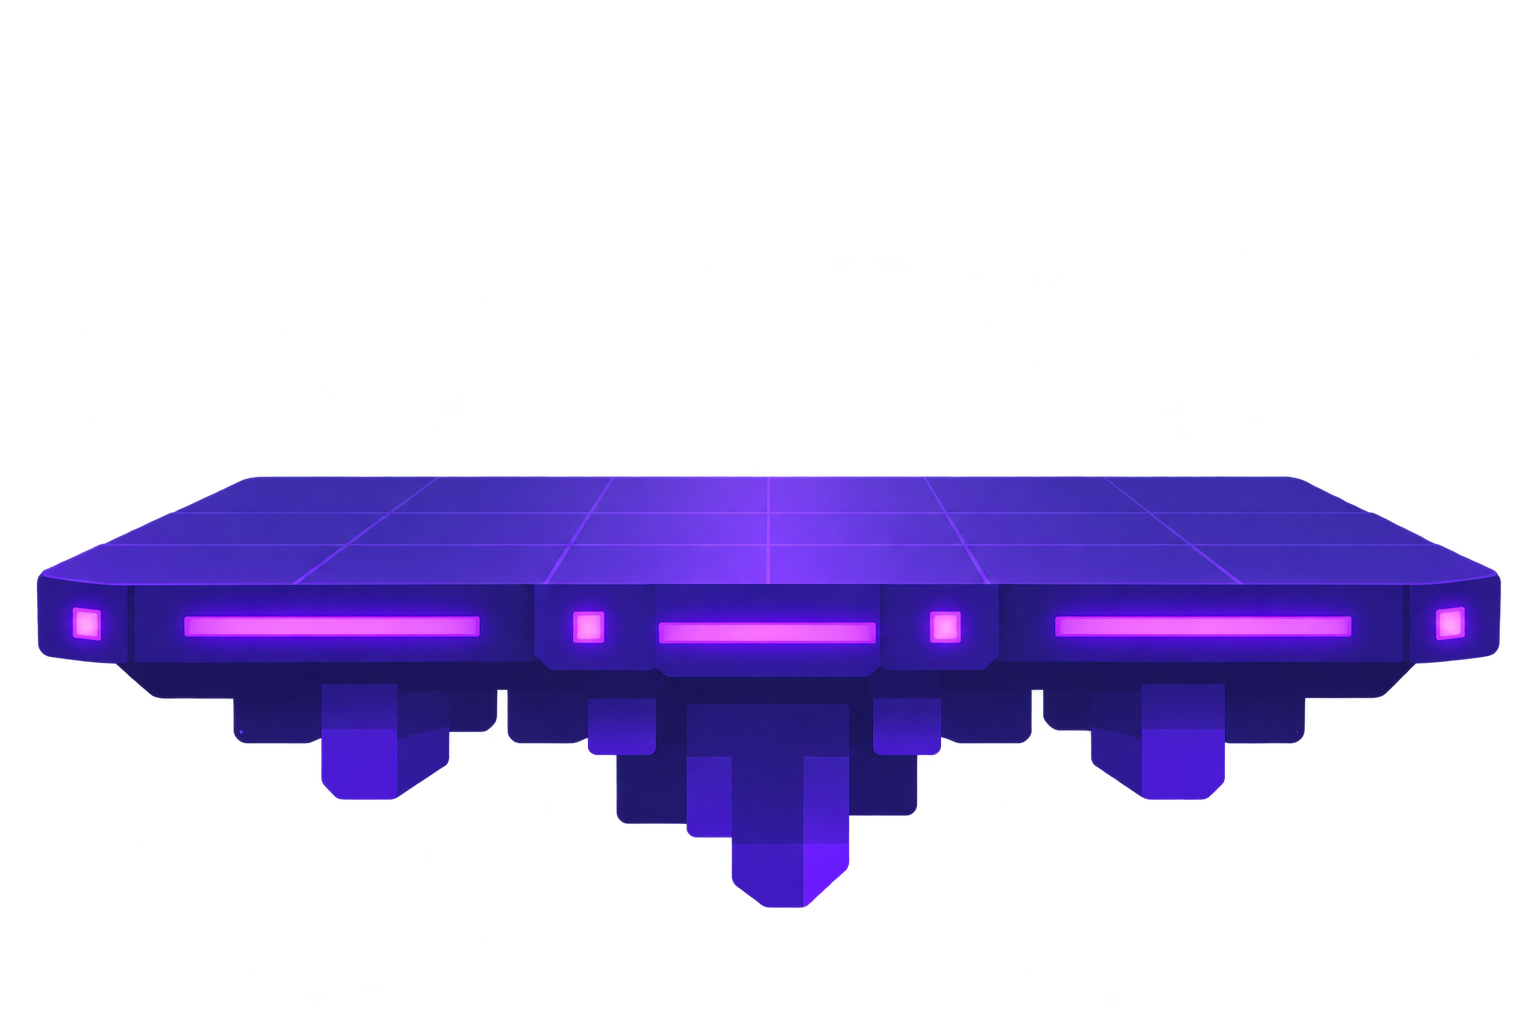
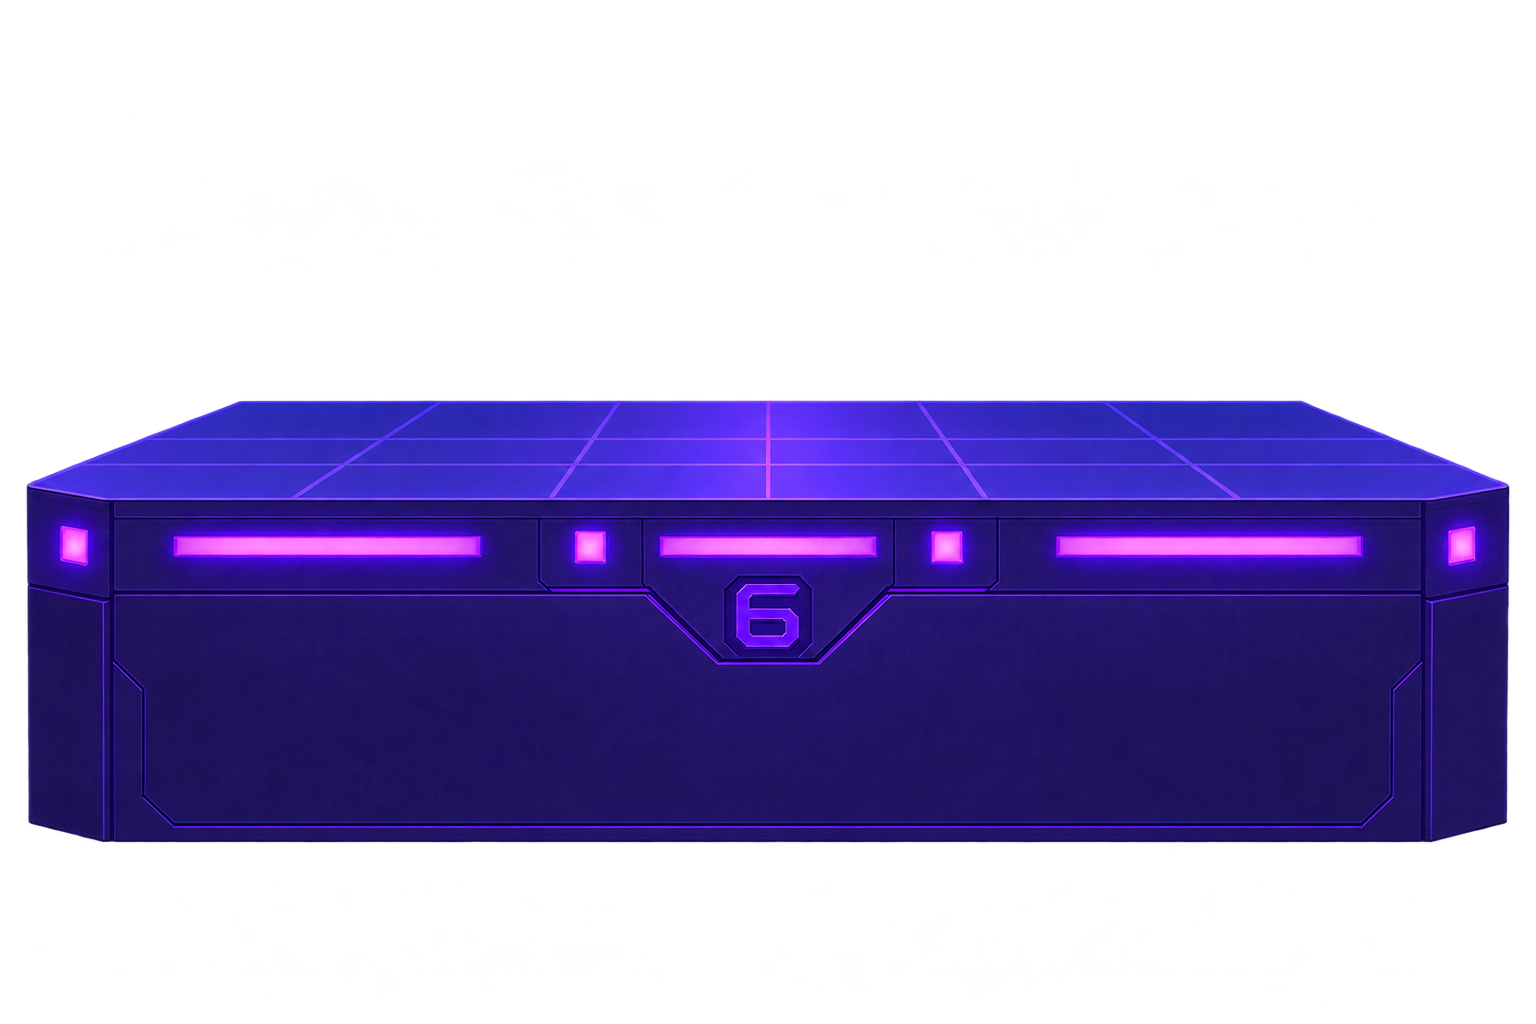
Add files via upload

diff --git a/renderer.js b/renderer.js
@@ -9,60 +9,40 @@ import { getResonanceAttackAction } from './resonanceConstructs.js';
 import { getAttackSpecForData } from './attackSpecs.js';
 import { drawSpecAttack, drawSpecSuper } from './attackSpecRenderer.js';
 
-// The new supplied stage is one complete platform, so there is no seam to
-// blend or artificial centre geometry to draw.
+// Split City uses the user's transparent replacement PNGs.
 const splitCityStage = typeof Image === 'undefined' ? null : new Image();
+const splitCityMovingStage = typeof Image === 'undefined' ? null : new Image();
 const splitCityBackdrop = typeof Image === 'undefined' ? null : new Image();
 if (splitCityStage) splitCityStage.src = '/art/stages/split-city/split-city-main-platform.png';
+if (splitCityMovingStage) splitCityMovingStage.src = '/art/stages/split-city/split-city-moving-platform.png';
 if (splitCityBackdrop) splitCityBackdrop.src = '/art/stages/split-city/split-city-backdrop.png';
-let cleanedSplitCityStage = null;
 
 function imageReady(image) {
   return Boolean(image && image.complete && image.naturalWidth && image.naturalHeight);
 }
 
-function getCleanSplitCityStage() {
-  if (!imageReady(splitCityStage) || typeof document === 'undefined') return null;
-  if (cleanedSplitCityStage) return cleanedSplitCityStage;
-  const canvas = document.createElement('canvas');
-  canvas.width = splitCityStage.naturalWidth;
-  canvas.height = splitCityStage.naturalHeight;
-  const stageCtx = canvas.getContext('2d', { willReadFrequently: true });
-  stageCtx.drawImage(splitCityStage, 0, 0);
-  const pixels = stageCtx.getImageData(0, 0, canvas.width, canvas.height);
-  // The supplied PNG has an opaque black background. Key only near-perfect
-  // black, leaving the intentionally dark crystal edges intact.
-  for (let i = 0; i < pixels.data.length; i += 4) {
-    if (pixels.data[i] < 7 && pixels.data[i + 1] < 7 && pixels.data[i + 2] < 7) pixels.data[i + 3] = 0;
-  }
-  stageCtx.putImageData(pixels, 0, 0);
-  cleanedSplitCityStage = canvas;
-  return canvas;
-}
-
 function drawJoinedSplitCityPlatform(ctx, platform, foreground = false) {
-  const art = getCleanSplitCityStage();
-  if (!art) return false;
-  // Source crop holds the complete painted island, without its empty black
-  // margins. The collision line is 45px below its visible top.
-  const source = { x: 25, y: 450, w: 1491, h: 460 };
-  // Artwork's deck begins 26 source pixels into this crop. Scale it to the
-  // collision width so the visible top surface aligns with the collision top.
-  const scale = platform.w / source.w;
-  const visualTop = platform.y - 26 * scale;
-  const visualHeight = source.h * scale;
+  if (!imageReady(splitCityStage)) return false;
+  // Render full transparent artwork. The deck's front edge aligns with the
+  // top of the rectangular collider; the front pass hides the fighter's feet
+  // slightly so they look planted into the stage rather than perched above it.
+  const visual = { x: platform.x, y: platform.y - 185, w: platform.w, h: 340 };
   ctx.save();
   ctx.imageSmoothingEnabled = true;
   if (foreground) {
-    // Redraw the front deck after fighters. This makes the feet/lower shins
-    // disappear behind the platform instead of merely changing physics.
     ctx.beginPath();
-    ctx.rect(platform.x, platform.y - 2, platform.w, visualHeight + 2);
+    ctx.rect(platform.x, platform.y - 2, platform.w, Math.max(1, visual.y + visual.h - platform.y));
     ctx.clip();
   }
-  ctx.drawImage(art, source.x, source.y, source.w, source.h,
-    platform.x, visualTop, platform.w, visualHeight);
+  ctx.drawImage(splitCityStage, visual.x, visual.y, visual.w, visual.h);
   ctx.restore();
+  return true;
+}
+
+function drawSplitCityMovingPlatform(ctx, platform) {
+  if (!imageReady(splitCityMovingStage)) return false;
+  // Shallow artwork, with the top collision surface aligned to platform.y.
+  ctx.drawImage(splitCityMovingStage, platform.x, platform.y - 46, platform.w, 62);
   return true;
 }
 
@@ -2086,6 +2066,7 @@ export function drawPlatforms(ctx, platforms, frame = 0, mapId = 'splitcity') {
     // rendered once by the stage/match renderer.
     if (p?._freehandSegment || p?._artCollisionOnly) return;
     if (mapId === 'splitcity' && p.material === 'split_city_joined' && drawJoinedSplitCityPlatform(ctx, p)) return;
+    if (mapId === 'splitcity' && p.material === 'split_city_moving' && drawSplitCityMovingPlatform(ctx, p)) return;
     const isMain = p.h >= 18;
     ctx.fillStyle = 'rgba(0,0,0,0.3)';
     ctx.beginPath();
@@ -2149,7 +2130,7 @@ export function drawPlatforms(ctx, platforms, frame = 0, mapId = 'splitcity') {
 // the stage while the first drawPlatforms pass remains behind the characters.
 export function drawSplitCityPlatformForeground(ctx, platforms, mapId = 'splitcity') {
   if (mapId !== 'splitcity' || !Array.isArray(platforms)) return;
-  const main = platforms.find((p) => p?.material === 'split_city_joined');
+  const main = platforms.find((p) => p?._splitCityMain || p?.material === 'split_city_joined');
   if (main) drawJoinedSplitCityPlatform(ctx, main, true);
 }
 

diff --git a/PlatformFighter.jsx b/PlatformFighter.jsx
@@ -48,24 +48,15 @@ const H = 720;
 
 const MAP_PLATFORMS = {
   splitcity: [
-    // Collision top matches the supplied platform deck. The renderer draws the
-    // front rim again after fighters so their feet/shins appear inside the art.
-    { x: 177, y: 570, w: 925, h: 20, material: 'split_city_joined', _forceSolid: true },
-    // Follow the supplied crystal underside silhouette with stepped side/bottom
-    // collision segments. These are physics-only and are not drawn as rectangles.
-    { x: 177, y: 590, w: 55, h: 15, _forceSolid: true, _artCollisionOnly: true },
-    { x: 205, y: 605, w: 65, h: 36, _forceSolid: true, _artCollisionOnly: true },
-    { x: 248, y: 635, w: 82, h: 58, _forceSolid: true, _artCollisionOnly: true },
-    { x: 305, y: 680, w: 92, h: 48, _forceSolid: true, _artCollisionOnly: true },
-    { x: 375, y: 705, w: 115, h: 38, _forceSolid: true, _artCollisionOnly: true },
-    { x: 465, y: 720, w: 105, h: 25, _forceSolid: true, _artCollisionOnly: true },
-    { x: 550, y: 704, w: 110, h: 42, _forceSolid: true, _artCollisionOnly: true },
-    { x: 640, y: 720, w: 105, h: 25, _forceSolid: true, _artCollisionOnly: true },
-    { x: 725, y: 700, w: 115, h: 43, _forceSolid: true, _artCollisionOnly: true },
-    { x: 820, y: 665, w: 105, h: 63, _forceSolid: true, _artCollisionOnly: true },
-    { x: 900, y: 625, w: 95, h: 72, _forceSolid: true, _artCollisionOnly: true },
-    { x: 970, y: 595, w: 80, h: 48, _forceSolid: true, _artCollisionOnly: true },
-    { x: 1028, y: 590, w: 74, h: 16, _forceSolid: true, _artCollisionOnly: true },
+    // The main platform uses a rectangular solid collider. Its top is the
+    // playable deck; the rectangle also blocks movement at the visible sides
+    // and underside, matching the supplied straight-edged stage art.
+    { x: 75, y: 500, w: 1130, h: 150, material: 'split_city_joined', _forceSolid: true, _splitCityMain: true },
+    // Small elevated platform: one-way (jump-through/drop-through) and moves
+    // from side to side. With the movement runtime's triangle wave, speed 1/180
+    // makes each left-to-right trip about 45 seconds (within requested 30–60s).
+    { x: 530, y: 365, w: 220, h: 16, material: 'split_city_moving', _splitCityMoving: true,
+      move: { type: 'horizontal', distance: 700, speed: 1 / 180, phase: 0 } },
   ],
   // Basic — Split City backdrop with a single flat normal-material platform
   basic: [

diff --git a/fighter.js b/fighter.js
@@ -1128,6 +1128,7 @@ export function updateFighter(fighter, inputs, platforms, stageWidth, stageHeigh
   fighter.prevX = fighter.x;
   fighter.prevY = fighter.y;
   fighter._platforms = platforms;
+  if (fighter._dropThroughTimer > 0) fighter._dropThroughTimer--;
 
   // Captured fighters cannot steer, jump, attack, or be repeatedly recaptured.
   // The attacker completes the authored move and then releases with a bounded
@@ -1262,6 +1263,21 @@ export function updateFighter(fighter, inputs, platforms, stageWidth, stageHeigh
   // Track DI from inputs
   fighter.diX = (inputs.left ? -1 : 0) + (inputs.right ? 1 : 0);
   fighter.diY = (inputs.down ? 0.5 : 0) + (inputs.up ? -0.3 : 0);
+  // Down + jump on a one-way platform deliberately drops through it instead
+  // of triggering an upward jump. The short timer lets the fighter pass the
+  // platform plane before normal landing checks resume.
+  if (fighter.grounded && inputs.down && inputs.jump && !fighter._dropThroughInputHeld) {
+    const standingOnOneWay = (platforms || []).some(p => p && !p._forceSolid && p.h <= 20 && p._deleted <= 0 &&
+      fighter.x > p.x - 16 && fighter.x < p.x + p.w + 16 && Math.abs(fighter.y - p.y) <= 3);
+    if (standingOnOneWay) {
+      fighter._dropThroughTimer = 8;
+      fighter.grounded = false;
+      fighter.y += 4;
+      fighter.vy = Math.max(2, fighter.vy || 0);
+      fighter.jumpHeld = true;
+    }
+  }
+  fighter._dropThroughInputHeld = !!(inputs.down && inputs.jump);
 
   // ── Hitstun: smooth knockback with DI influence ──
   if (fighter.hitstun > 0) {
@@ -1892,6 +1908,7 @@ function resolveCollisions(fighter, platforms, stageWidth, stageHeight) {
     if (PASS_THROUGH.includes(mat)) continue;
     if (p._deleted > 0) continue;
     const isSoft = isJumpThroughPlatform(p);
+    if (isSoft && fighter._dropThroughTimer > 0) continue;
 
     // One-way platform collision — only land when falling onto it from above
     if (fighter.vy >= 0) {

diff --git a/movementAbilities.js b/movementAbilities.js
@@ -6,7 +6,7 @@
 // - Airborne: all four directions become a 0.30s dodge with invulnerability.
 // - An airborne dodge consumes one dodge use. Dodge uses track remaining jumps.
 // - Solid walls at least half a fighter tall can be wall-slid while moving into them.
-// - Leaving a wall after a slide restores two jumps + one dodge, up to two wall grants
+// - Leaving a wall after a slide restores one jump + one dodge, up to two wall grants
 //   per airtime. Landing resets the normal jump/dodge pool.
 //
 // Sports modes are intentionally excluded here. The existing game uses "soccer" as
